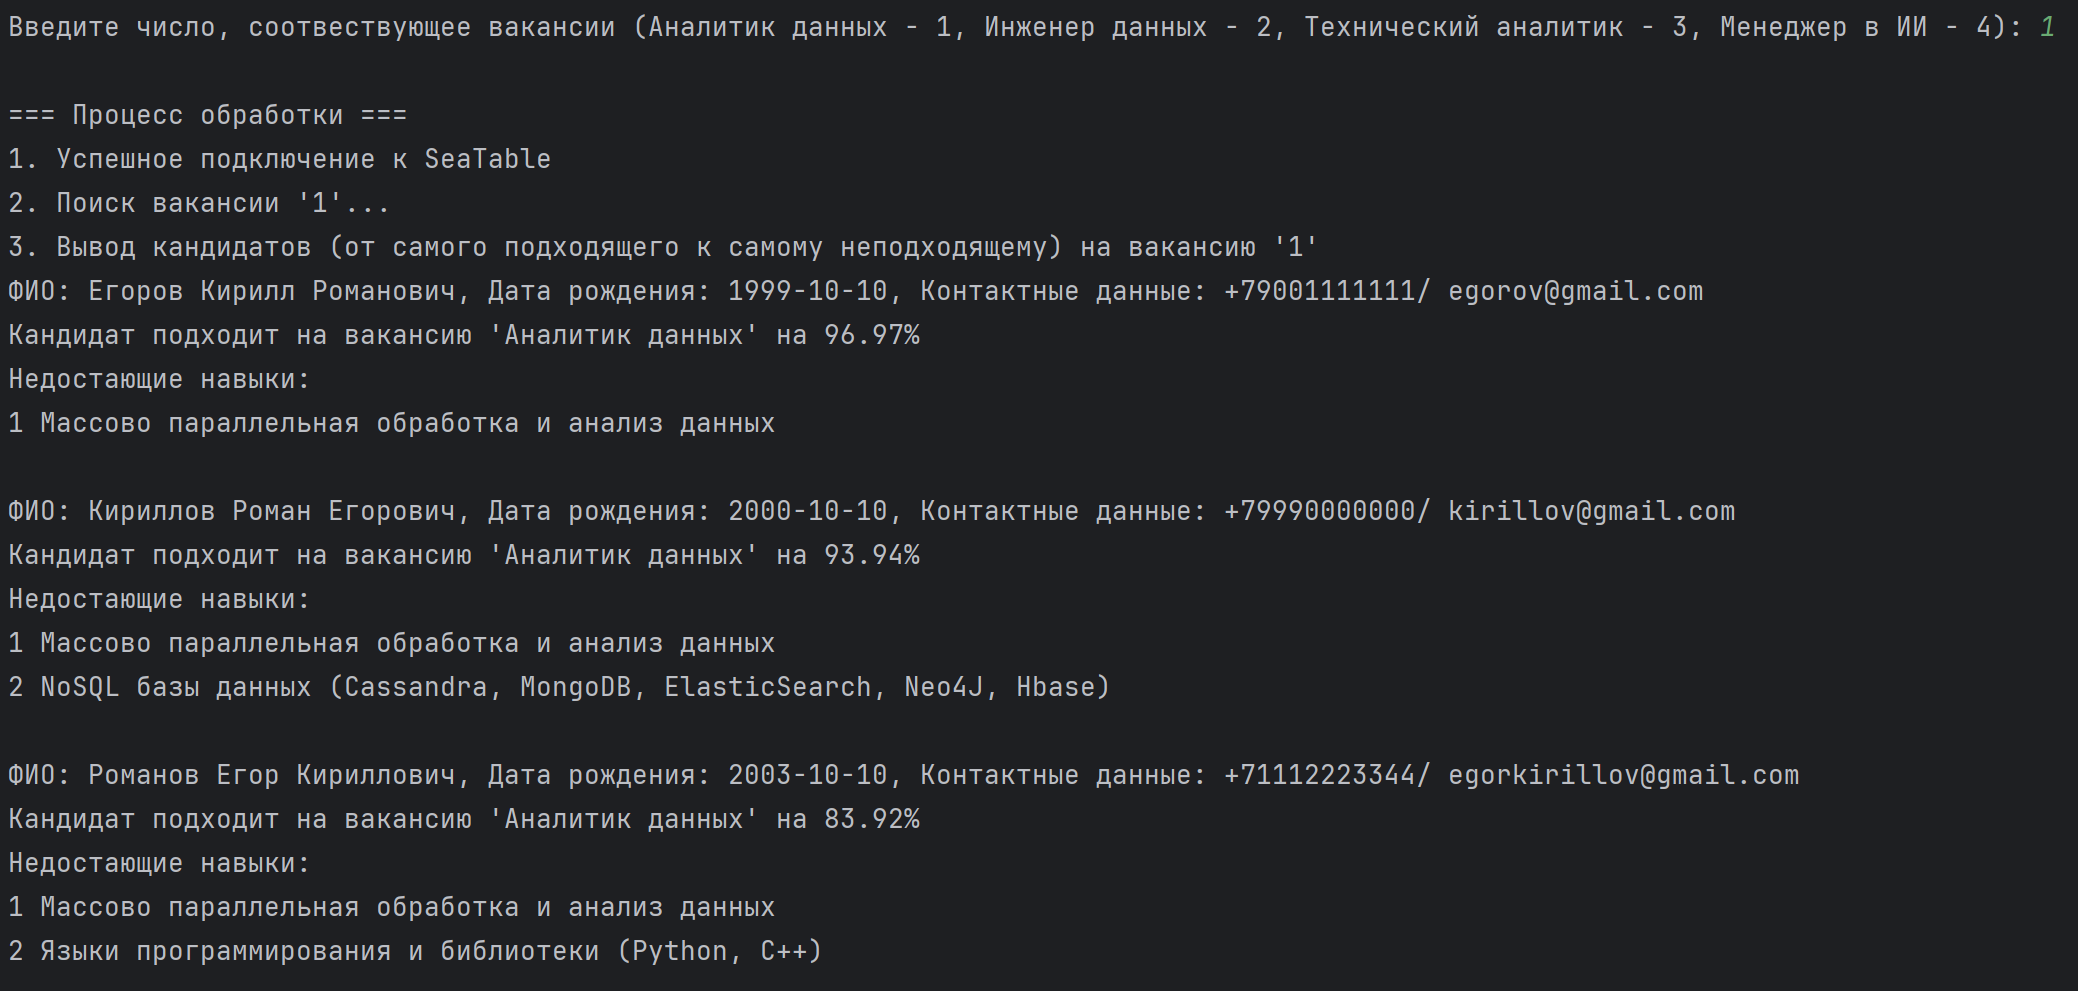
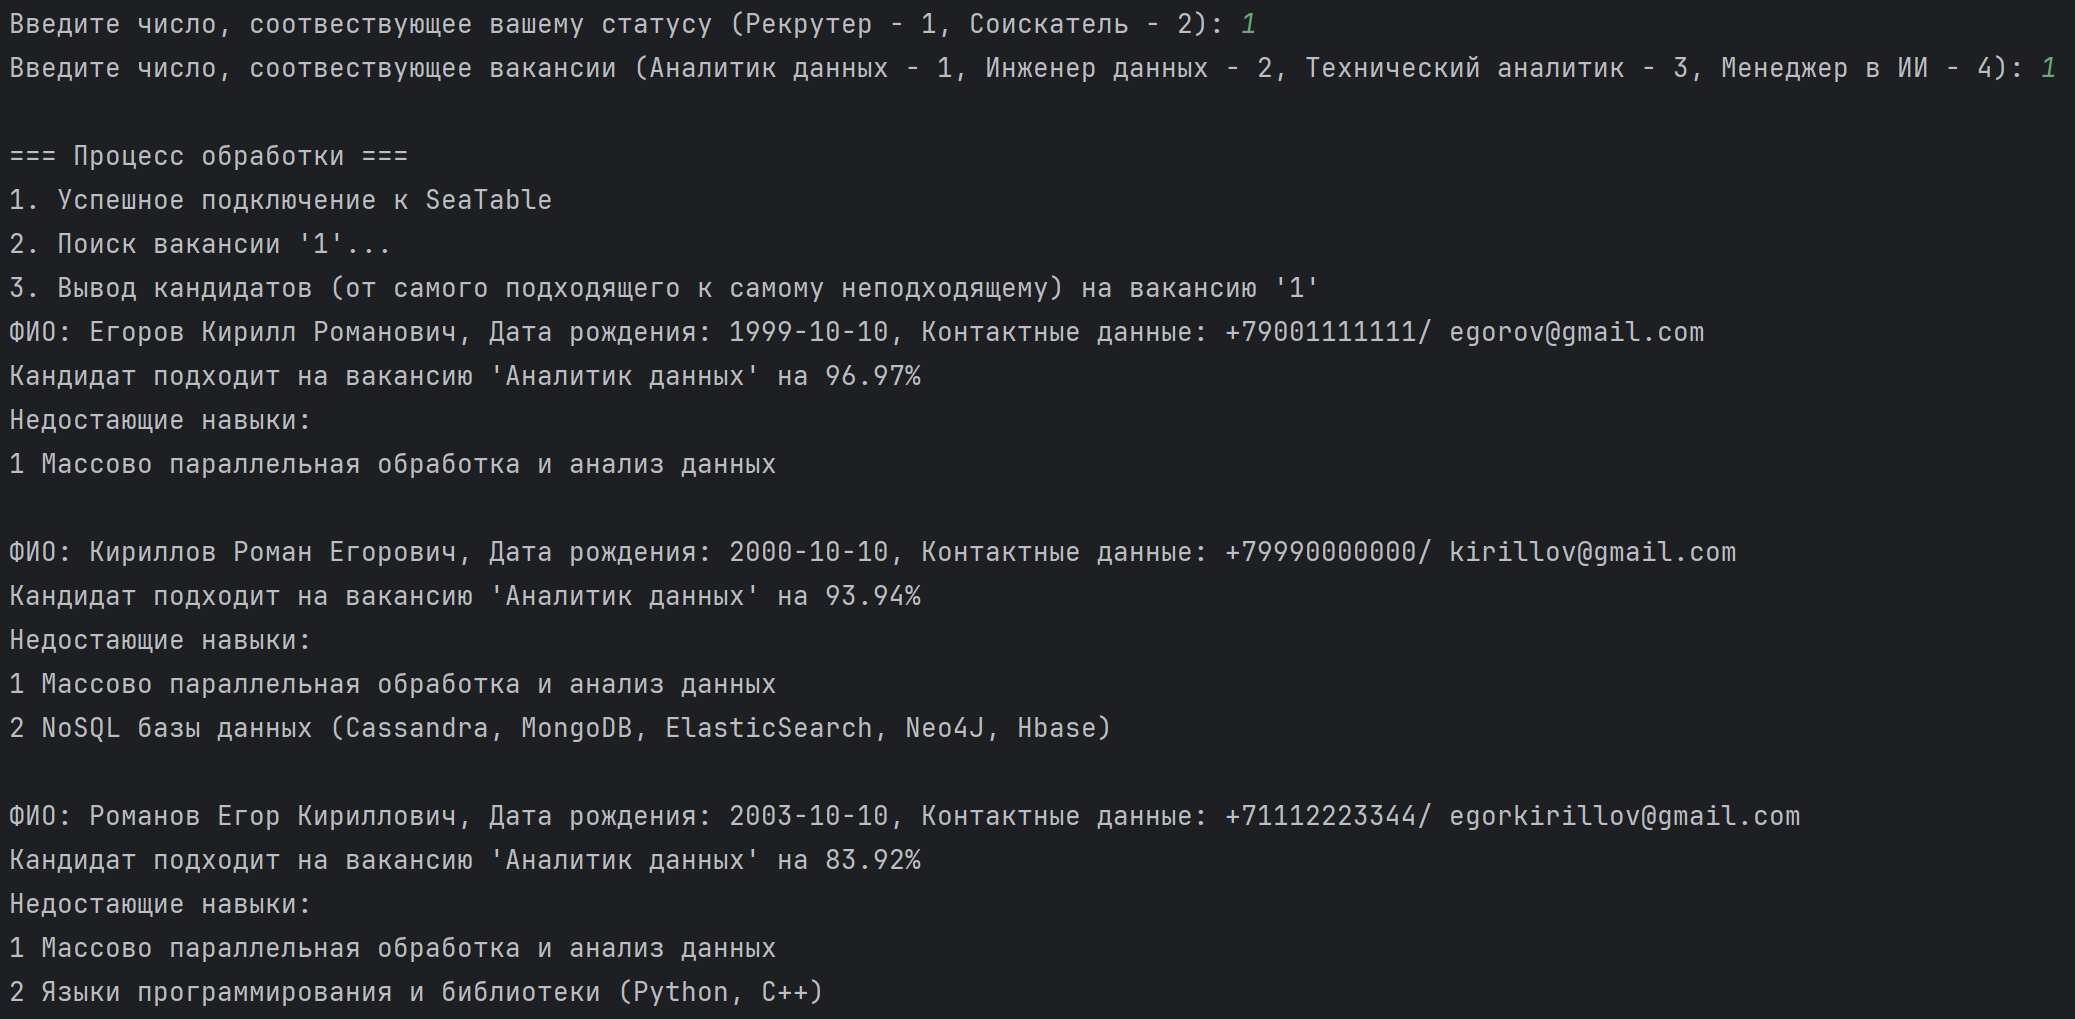
один мейн, новые скрины

Changed region(s): [[0.0, 0.0, 0.9253, 0.7265], [0.0, 0.7568, 0.8636, 0.999]]

diff --git a/main_hr.py b/main_hr.py
@@ -3,35 +3,36 @@ import seatable_api
 base = seatable_api.Base("db7264bef2843939860fbb9301eb1e62eb551603", "https://cloud.seatable.io")
 
 # Рекрутер выбирает, какая вакансия его интересует (сделано на основе БМПК)
-while True:
-    vacancy_name = int(input('Введите число, соотвествующее вакансии (Аналитик данных - 1, Инженер данных - 2, Технический аналитик - 3, Менеджер в ИИ - 4): '))
-    if vacancy_name < 5 and vacancy_name > 0:
-        break
-    else:
-        print('Такой вакансии не существует. Попробуйте еще раз')
+def main_hr():
+    while True:
+        vacancy_name = int(input('Введите число, соотвествующее вакансии (Аналитик данных - 1, Инженер данных - 2, Технический аналитик - 3, Менеджер в ИИ - 4): '))
+        if vacancy_name < 5 and vacancy_name > 0:
+            break
+        else:
+            print('Такой вакансии не существует. Попробуйте еще раз')
 
-print("\n=== Процесс обработки ===")
+    print("\n=== Процесс обработки ===")
 
-# Аутентификация
-base.auth()
-print("1. Успешное подключение к SeaTable")
+    # Аутентификация
+    base.auth()
+    print("1. Успешное подключение к SeaTable")
 
-# Загрузка кандидатов
-print(f"2. Поиск вакансии '{vacancy_name}'...")
-rows = base.list_rows('Candidates')
+    # Загрузка кандидатов
+    print(f"2. Поиск вакансии '{vacancy_name}'...")
+    rows = base.list_rows('Candidates')
 
-# Сортировка кандидатов
-rows.sort(reverse = True, key = lambda x: x['points'] )
+    # Сортировка кандидатов
+    rows.sort(reverse = True, key = lambda x: x['points'] )
 
-vacancy = rows[0]['job_title']
+    vacancy = rows[0]['job_title']
 
-# Вывод кандидатов
-print(f"3. Вывод кандидатов (от самого подходящего к самому неподходящему) на вакансию '{vacancy_name}'")
-for row in rows:
-    print(f"ФИО: {row['full_name']}, Дата рождения: {row['date_birth'][:10]}, Контактные данные: {row['phone_number']}/ {row['email']}")
-    print(f"Кандидат подходит на вакансию '{vacancy}' на {row['points']}%")
-    print("Недостающие навыки:")
-    skills = row['missing_skills']
-    for num, skill in enumerate(list(eval(skills))):
-        print(num + 1, skill)
-    print()
+    # Вывод кандидатов
+    print(f"3. Вывод кандидатов (от самого подходящего к самому неподходящему) на вакансию '{vacancy_name}'")
+    for row in rows:
+        print(f"ФИО: {row['full_name']}, Дата рождения: {row['date_birth'][:10]}, Контактные данные: {row['phone_number']}/ {row['email']}")
+        print(f"Кандидат подходит на вакансию '{vacancy}' на {row['points']}%")
+        print("Недостающие навыки:")
+        skills = row['missing_skills']
+        for num, skill in enumerate(list(eval(skills))):
+            print(num + 1, skill)
+        print()

diff --git a/main_candidate.py b/main_candidate.py
@@ -128,15 +128,15 @@ def processing_resume(candidate_info: dict, user_skills: list[str],
 # user_skills = ['Качество и предобработка данных, подходы и инструменты',
 #                'Методы машинного обучения', 'Процесс, стадии и методологии разработки решений на основе ИИ',
 #                'Языки программирования и библиотеки (Python, C++)']
+def main_candidate():
+    candidate_data = process_folder('rezyume')
+    candidate_info, candidate_universities, studied_programs, user_skills = candidate_data
 
-candidate_data = process_folder('rezyume')
-candidate_info, candidate_universities, studied_programs, user_skills = candidate_data
+    # Обработка резюме
+    result = processing_resume(candidate_info, user_skills, studied_programs, candidate_universities)
 
-# Обработка резюме
-result = processing_resume(candidate_info, user_skills, studied_programs, candidate_universities)
-
-# Вывод результатов
-print('\nБлагодарим за отклик! Ваше резюме успешно обработано!')
+    # Вывод результатов
+    print('\nБлагодарим за отклик! Ваше резюме успешно обработано!')
 # print(result['match_message'])
 # print("Контактная информация:", result['candidate_info'])
 # print("Недостающие навыки:", str(result['missing_skills']))

diff --git a/main.py b/main.py
@@ -1,0 +1,15 @@
+from main_candidate import main_candidate
+from main_hr import main_hr
+
+while True:
+    num_status = int(input(
+        'Введите число, соотвествующее вашему статусу (Рекрутер - 1, Соискатель - 2): '))
+    if num_status < 3 and num_status > 0:
+        break
+    else:
+        print('Неправильный ввод. Попробуйте еще раз')
+
+if num_status == 1:
+    main_hr()
+elif num_status == 2:
+    main_candidate()
